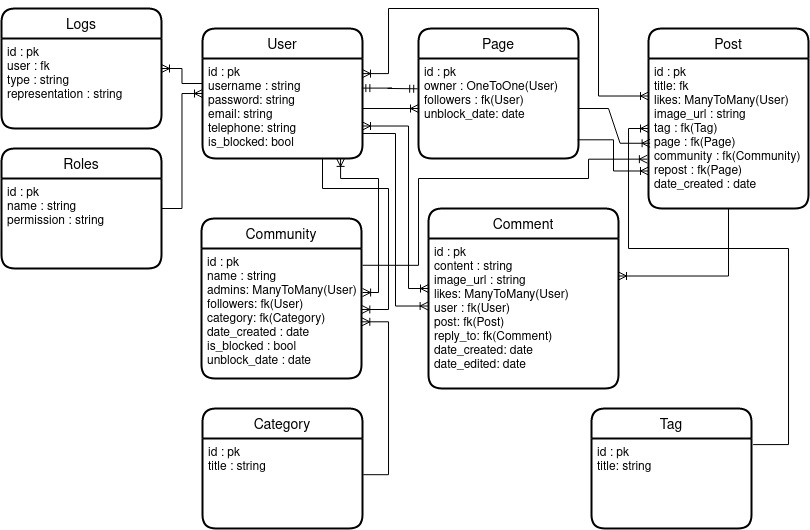
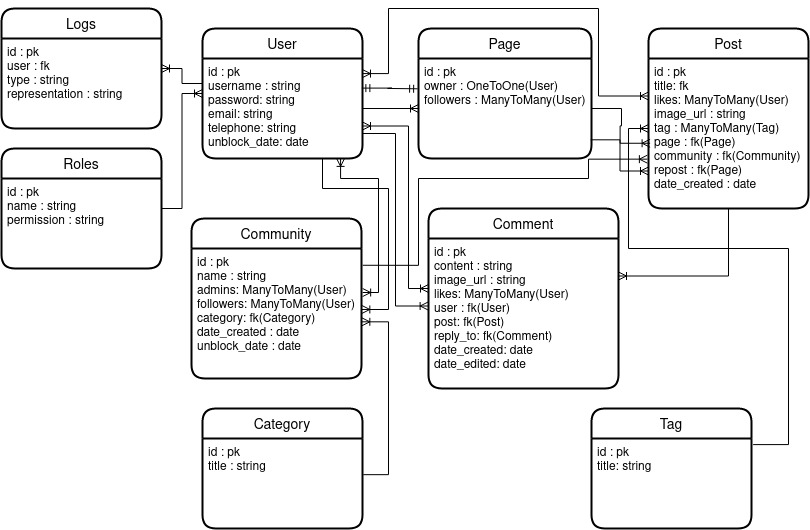
Edit fk and mtom relations

diff --git a/ENTITIES.md b/ENTITIES.md
@@ -9,22 +9,21 @@
 | password | VARCHAR(255) | not null | пароль |
 | email | VARCHAR(100) | blank=True | эл почта |
 | telephone | VARCHAR(10) | blank=True, unique | номер телефона |
-| is_blocked | BOOLEAN | not null | заблокирован ли пользователь |
+| unblock_date | DATE | - | дата разблокировки пользователя |
 ## Страница Пользователя (Page)
 |имя поля | тип | ограничения | описание |
 |:---:|:---:|:---:|:---:|
 | id | pk | auto increment; not null; unique | первичный ключ |
 | owner | OneToOneField(User) | not null | пользователь к которому прикреплена эта страница |
-| followers | ForeignKey(User) | not null | подписчики страницы |
-| unblock_date | DATE | - | дата разблокировки страницы |
+| followers | ManyToMany(User) | not null | подписчики страницы |
 ## Пост (Post)
 |имя поля | тип | ограничения | описание |
 |:---:|:---:|:---:|:---:|
 | id | pk | auto increment; not null; unique | первичный ключ |
 | title | VARCHAR(100) | not null | заголовок поста |
-| likes | ForeignKey(User) | - | пользователи которые лайкнули пост |
+| likes | ManyToMany(User) | - | пользователи которые лайкнули пост |
 | image_url | VARCHAR(255) | - | ссылка s3 на изображение |
-| tag | ForeignKey(Tag) | not null | тег поста (тематика) |
+| tag | ManyToMany(Tag) | not null | тег поста (тематика) |
 | page | ForeignKey(Page) | not null | страница пользователя который создал пост |
 | community | ForeignKey(Community) | not null | сообщество которое создало пост |
 | repost | ForeignKey(Post) | not null | пост который репостит этот пост |
@@ -35,10 +34,9 @@
 | id | pk | auto increment; not null; unique | первичный ключ |
 | name | VARCHAR(50) | not null | название сообщества |
 | admins | ManyToMany(User) | not null | администраторы сообщества |
-| followers | ForeignKey(User) | not null | подписчики сообщества |
+| followers | ManyToMany(User) | not null | подписчики сообщества |
 | category | ForeignKey(Category) | not null | категория сообщества |
 | date_created | DATE | not null | дата создания сообщества |
-| is_blocked | BOOLEAN | not null | заблокировано ли сообщество |
 | unblock_date | DATE | - | дата разблокировки сообщества |
 ## Комментарий (Comment)
 |имя поля | тип | ограничения | описание |

diff --git a/TT.md b/TT.md
@@ -22,7 +22,7 @@
 | Блокировать подписчиков сообщества 	| - | - | + | + | + |
 | Управление аккаунтами | - | - | - | - | + |
 | Управление страницами и сообществами | - | - | - | - | + |
-| Управление постами | - | - | - | + | - |
+| Управление постами | - | - | - | + | + |
 | Журналирование | - | - | - | + | + |
 | Просмотр логов | - | - | - | + | + |
 
